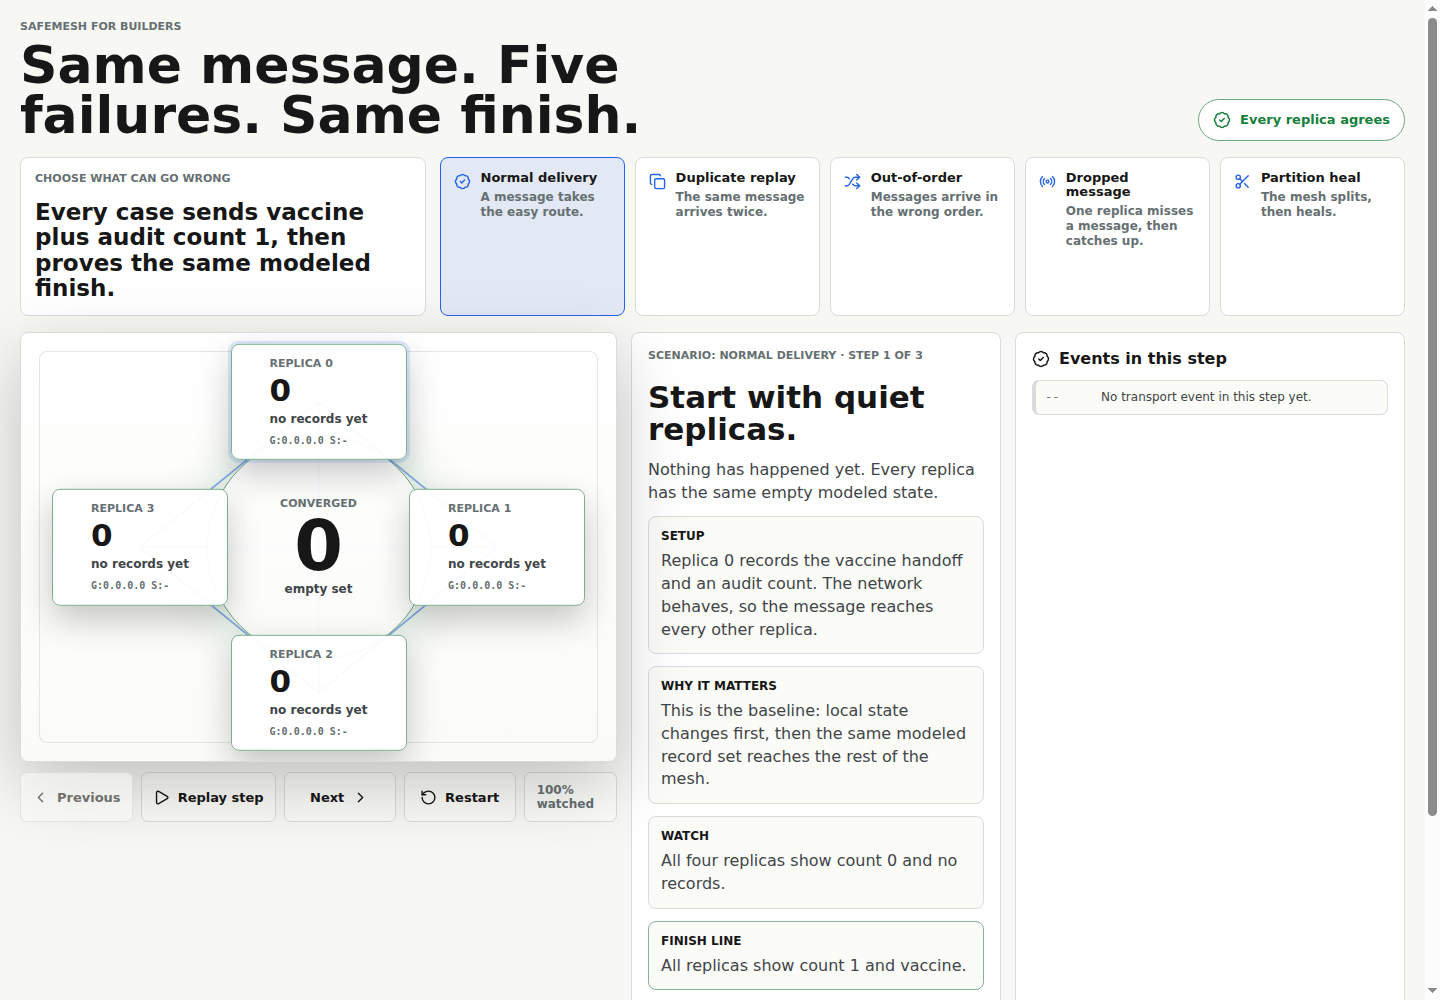
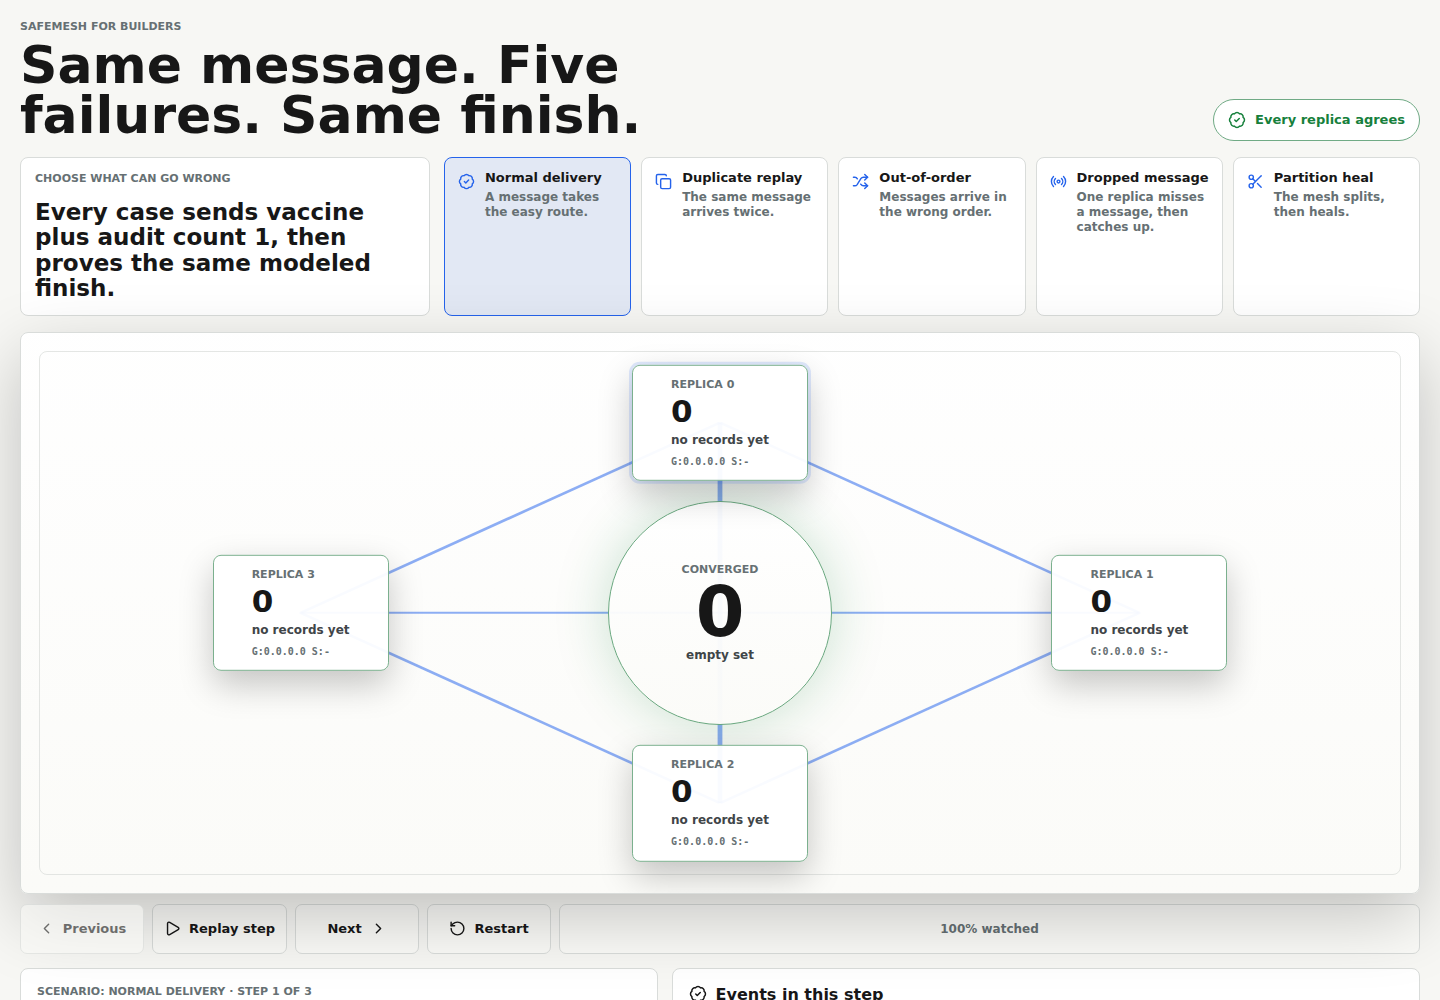
Give web demo graph its own row

diff --git a/web/src/App.tsx b/web/src/App.tsx
@@ -281,66 +281,68 @@ function App() {
           </div>
         </div>
 
-        <aside className="narrative-panel" aria-label="Narrative arc">
-          {advancedOpen ? (
-            <>
-              <p className="eyebrow">Advanced lab</p>
-              <h2>{story.label}</h2>
-              <p>{story.detail}</p>
-              <div className="watch-card">
-                <strong>Current state</strong>
-                <span>{sandboxReadout(sim, status)}</span>
-              </div>
-            </>
-          ) : (
-            <>
-              <p className="eyebrow">
-                Scenario: {activeScenario.label} · Step {stepIndex + 1} of {activeScenario.steps.length}
-              </p>
-              <h2>{activeStep.title}</h2>
-              <p>{activeStep.plainExplanation}</p>
-              <div className="watch-card">
-                <strong>Setup</strong>
-                <span>{activeScenario.setup}</span>
-              </div>
-              <div className="watch-card">
-                <strong>Why it matters</strong>
-                <span>{activeScenario.whyItMatters}</span>
-              </div>
-              <div className="watch-card">
-                <strong>Watch</strong>
-                <span>{activeStep.watchFor}</span>
-              </div>
-              <div className="watch-card success">
-                <strong>Finish line</strong>
-                <span>{activeScenario.successState}</span>
-              </div>
-            </>
-          )}
-          <p className="claim-line">TypeScript is the demo mirror. The Lean-backed Rust core is the proof-carrying surface for modeled CRDT semantics.</p>
-        </aside>
-
-        <aside className="log-panel" aria-label={advancedOpen ? 'Story log' : 'Events in this step'}>
-          <header>
-            <BadgeCheck size={18} />
-            <h2>{advancedOpen ? (technical ? 'Raw transport log' : 'Story log') : 'Events in this step'}</h2>
-          </header>
-          <ol>
-            {visibleLog.length === 0 ? (
-              <li className="empty-log">
-                <time>--</time>
-                <span>No transport event in this step yet.</span>
-              </li>
+        <div className="story-row">
+          <aside className="narrative-panel" aria-label="Narrative arc">
+            {advancedOpen ? (
+              <>
+                <p className="eyebrow">Advanced lab</p>
+                <h2>{story.label}</h2>
+                <p>{story.detail}</p>
+                <div className="watch-card">
+                  <strong>Current state</strong>
+                  <span>{sandboxReadout(sim, status)}</span>
+                </div>
+              </>
             ) : (
-              visibleLog.map((entry) => (
-                <li key={entry.id} className={entry.tone}>
-                  <time>{(entry.at / 1000).toFixed(1)}s</time>
-                  <span>{technical ? entry.technical : entry.plain}</span>
-                </li>
-              ))
+              <>
+                <p className="eyebrow">
+                  Scenario: {activeScenario.label} · Step {stepIndex + 1} of {activeScenario.steps.length}
+                </p>
+                <h2>{activeStep.title}</h2>
+                <p>{activeStep.plainExplanation}</p>
+                <div className="watch-card">
+                  <strong>Setup</strong>
+                  <span>{activeScenario.setup}</span>
+                </div>
+                <div className="watch-card">
+                  <strong>Why it matters</strong>
+                  <span>{activeScenario.whyItMatters}</span>
+                </div>
+                <div className="watch-card">
+                  <strong>Watch</strong>
+                  <span>{activeStep.watchFor}</span>
+                </div>
+                <div className="watch-card success">
+                  <strong>Finish line</strong>
+                  <span>{activeScenario.successState}</span>
+                </div>
+              </>
             )}
-          </ol>
-        </aside>
+            <p className="claim-line">TypeScript is the demo mirror. The Lean-backed Rust core is the proof-carrying surface for modeled CRDT semantics.</p>
+          </aside>
+
+          <aside className="log-panel" aria-label={advancedOpen ? 'Story log' : 'Events in this step'}>
+            <header>
+              <BadgeCheck size={18} />
+              <h2>{advancedOpen ? (technical ? 'Raw transport log' : 'Story log') : 'Events in this step'}</h2>
+            </header>
+            <ol>
+              {visibleLog.length === 0 ? (
+                <li className="empty-log">
+                  <time>--</time>
+                  <span>No transport event in this step yet.</span>
+                </li>
+              ) : (
+                visibleLog.map((entry) => (
+                  <li key={entry.id} className={entry.tone}>
+                    <time>{(entry.at / 1000).toFixed(1)}s</time>
+                    <span>{technical ? entry.technical : entry.plain}</span>
+                  </li>
+                ))
+              )}
+            </ol>
+          </aside>
+        </div>
       </section>
 
       <section className={`control-dock ${advancedOpen ? 'open' : ''}`} aria-label="Advanced controls">
@@ -555,10 +557,31 @@ function packetPoint(packet: Packet, sim: Simulation, positions: Array<{ x: numb
   const from = positions[packet.from] ?? { x: 50, y: 50 }
   const to = positions[packet.to] ?? { x: 50, y: 50 }
   const progress = clamp((sim.now - packet.sentAt) / Math.max(1, packet.deliverAt - packet.sentAt), 0, 1)
+  const displayProgress = clamp(progress + packetProgressStagger(packet), 0.08, 0.92)
+  const dx = to.x - from.x
+  const dy = to.y - from.y
+  const length = Math.hypot(dx, dy) || 1
+  const lane = packetLane(packet)
+  const perpendicular = { x: -dy / length, y: dx / length }
+
   return {
-    x: from.x + (to.x - from.x) * progress,
-    y: from.y + (to.y - from.y) * progress,
+    x: clamp(from.x + dx * displayProgress + perpendicular.x * lane, 6, 94),
+    y: clamp(from.y + dy * displayProgress + perpendicular.y * lane, 8, 92),
   }
+}
+
+function packetLane(packet: Packet): number {
+  const kindLane = packet.delta.kind === 'gcounter.bump' ? -2.4 : packet.delta.kind === 'orset.add' ? 2.4 : 0
+  const destinationLane = ((packet.to + packet.from) % 3) - 1
+  const duplicateLane = packet.duplicated ? 2.2 : 0
+  return (kindLane + destinationLane * 1.4 + duplicateLane) * 1.9
+}
+
+function packetProgressStagger(packet: Packet): number {
+  const kindShift = packet.delta.kind === 'gcounter.bump' ? -0.07 : packet.delta.kind === 'orset.add' ? 0.07 : 0
+  const destinationShift = (((packet.to + packet.from) % 3) - 1) * 0.025
+  const duplicateShift = packet.duplicated ? 0.09 : 0
+  return kindShift + destinationShift + duplicateShift
 }
 
 function packetLabel(packet: Packet): string {

diff --git a/web/src/App.css b/web/src/App.css
@@ -168,9 +168,9 @@ h2 {
 
 .demo-grid {
   display: grid;
-  grid-template-columns: minmax(0, 1fr) minmax(300px, 370px) minmax(310px, 390px);
+  grid-template-columns: minmax(0, 1fr);
   gap: 14px;
-  align-items: stretch;
+  align-items: start;
 }
 
 .stage-shell {
@@ -183,8 +183,8 @@ h2 {
 
 .stage {
   min-width: 0;
-  height: 430px;
-  min-height: 430px;
+  height: clamp(520px, 39vw, 620px);
+  min-height: 520px;
   position: relative;
   overflow: hidden;
   background:
@@ -405,8 +405,16 @@ h2 {
 .stage-step-controls {
   min-height: 50px;
   display: grid;
-  grid-template-columns: repeat(4, minmax(112px, auto)) minmax(92px, 1fr);
+  grid-template-columns: repeat(4, minmax(124px, max-content)) minmax(92px, 1fr);
   gap: 8px;
+  align-items: stretch;
+}
+
+.story-row {
+  min-width: 0;
+  display: grid;
+  grid-template-columns: minmax(420px, 0.92fr) minmax(390px, 1.08fr);
+  gap: 14px;
   align-items: stretch;
 }
 
@@ -433,7 +441,7 @@ h2 {
 .narrative-panel,
 .log-panel {
   min-width: 0;
-  min-height: 490px;
+  min-height: 360px;
   display: grid;
   align-content: start;
   gap: 12px;
@@ -496,7 +504,7 @@ h2 {
   display: grid;
   gap: 8px;
   min-height: 0;
-  max-height: 488px;
+  max-height: 360px;
   margin: 0;
   padding: 0;
   overflow: auto;
@@ -745,6 +753,10 @@ button:disabled {
   .scenario-buttons,
   .tuning-bank {
     grid-template-columns: repeat(2, minmax(0, 1fr));
+  }
+
+  .story-row {
+    grid-template-columns: 1fr;
   }
 
   .stage-step-controls {

diff --git a/demos/web-hero/README.md b/demos/web-hero/README.md
@@ -23,8 +23,8 @@ Open the local Vite URL. The first screen asks you to choose what can go wrong.
 - Live replica state for G-Counter and OR-Set demo data.
 - Visible packet chips carrying a compact wire sketch.
 - Use-case buttons for normal delivery, duplicate replay, out-of-order delivery, dropped-message recovery, and partition heal.
-- Previous / Replay / Next controls placed directly under the replica picture.
-- Narrative and event log panels that explain the chosen scenario before each step.
+- A full-width replica picture with Previous / Replay / Next controls directly under it.
+- Narrative and event log panels underneath the picture, explaining the chosen scenario before each step.
 - A collapsed Advanced lab with controls for partition, heal, drop, duplicate, reorder, and reset.
 - A technical/plain-language toggle so the honest claim boundary stays visible without making the first screen feel like docs.
 - A calm-motion toggle for reduced-motion users.
